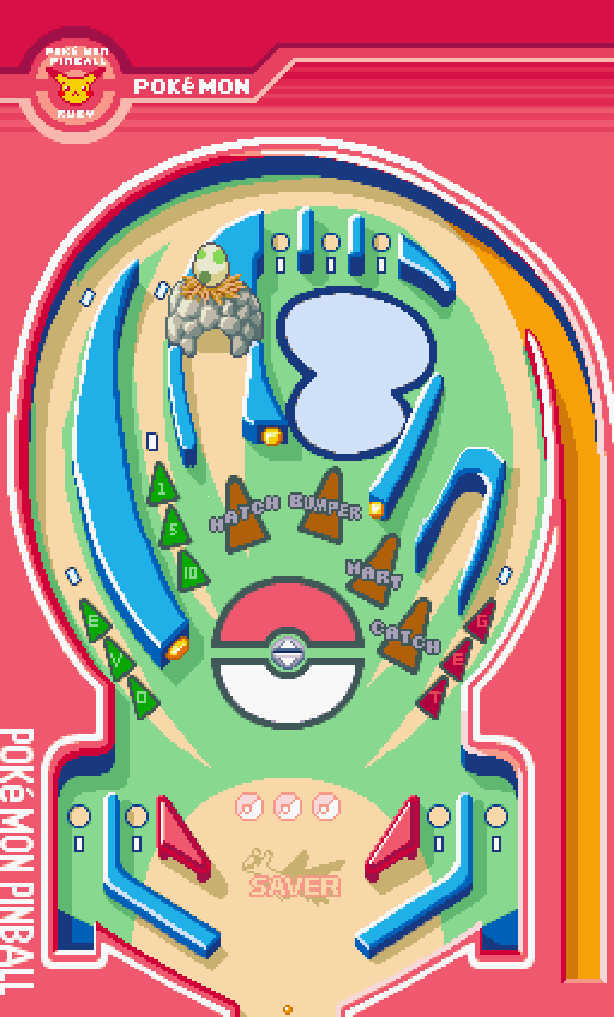
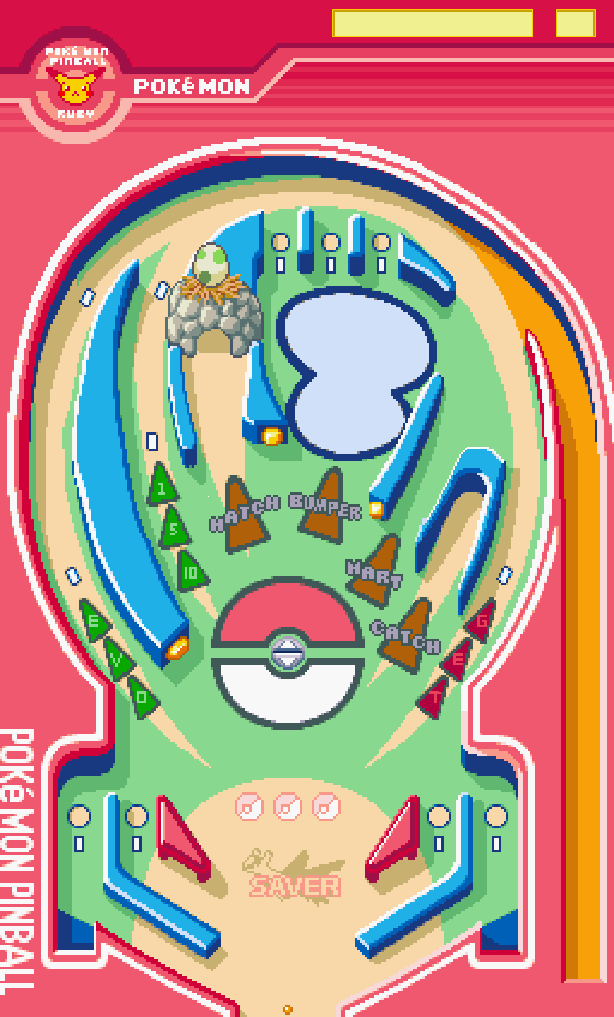
Fonts

Changed region(s): [[0.5261, 0.0, 0.8664, 0.061], [0.8974, 0.0, 0.9902, 0.061]]

diff --git a/Pokemon_Pinball/pokemon_pinball/Source/ModuleGame.cpp b/Pokemon_Pinball/pokemon_pinball/Source/ModuleGame.cpp
@@ -1960,7 +1960,7 @@ bool ModuleGame::Start()
 	saver_fx = App->audio->LoadFx("Assets/Saver.WAV");
 	backgroundMusic = LoadMusicStream("Assets/19-Red-Table.ogg");
 
-	App->fontsModule->LoadFontTexture("Assets/fonts16x32.png", '0',16);
+	App->fontsModule->LoadFontTexture("Assets/Fonts32x16.png", '0',16);
 
 	//sensor = App->physics->CreateRectangleSensor(SCREEN_WIDTH / 2, SCREEN_HEIGHT+25, SCREEN_WIDTH, 50);
 	PlayMusicStream(backgroundMusic);
@@ -2150,11 +2150,11 @@ update_status ModuleGame::Update()
 			DrawLine((int)(ray.x + destination.x), (int)(ray.y + destination.y), (int)(ray.x + destination.x + normal.x * 25.0f), (int)(ray.y + destination.y + normal.y * 25.0f), Color{ 100, 255, 100, 255 });
 		}
 	}
-	/*App->fontsModule->DrawText(10, 10, TextFormat("%d", suma), WHITE);*/
-	/*App->fontsModule->DrawText(10, 30, TextFormat("Lives: %d", lives), WHITE);*/
+	App->fontsModule->DrawText(10, 10, TextFormat("%d", suma), WHITE);
+	App->fontsModule->DrawText(560, 8, TextFormat(":%d", lives), WHITE);
 
-	DrawText(TextFormat("Score: %d", suma), 10, 10, 30, BLACK);
-	DrawText(TextFormat("Lives: %d", lives), 10, 40, 30, BLACK);
+	/*DrawText(TextFormat("Score: %d", suma), 10, 10, 30, BLACK);
+	DrawText(TextFormat("Lives: %d", lives), 10, 40, 30, BLACK);*/
 
 	return UPDATE_CONTINUE;
 }

diff --git a/Pokemon_Pinball/pokemon_pinball/Source/ModuleFonts.cpp b/Pokemon_Pinball/pokemon_pinball/Source/ModuleFonts.cpp
@@ -24,7 +24,7 @@ bool ModuleFonts::LoadFontTexture(const std::string& file_path, char first_chara
     }
 
     this->first_character = first_character;
-    this->character_size = 32;  
+    this->character_size = 16;  
     columns = font_texture.width / character_size;
     rows = font_texture.height / character_size;
 
@@ -53,7 +53,7 @@ void ModuleFonts::DrawCharacter(int x, int y, char c, const Color& col) const
         return;
     }
 
-    Rectangle srcRect = { (float)(coord_x * character_size), (float)(coord_y * character_size), 32.0f, 32.0f };
+    Rectangle srcRect = { (float)(coord_x * character_size), (float)(coord_y * character_size), 16.0f, 32.0f };
     Vector2 pos = { (float)x, (float)y };
 
     DrawTextureRec(font_texture, srcRect, pos, col);
